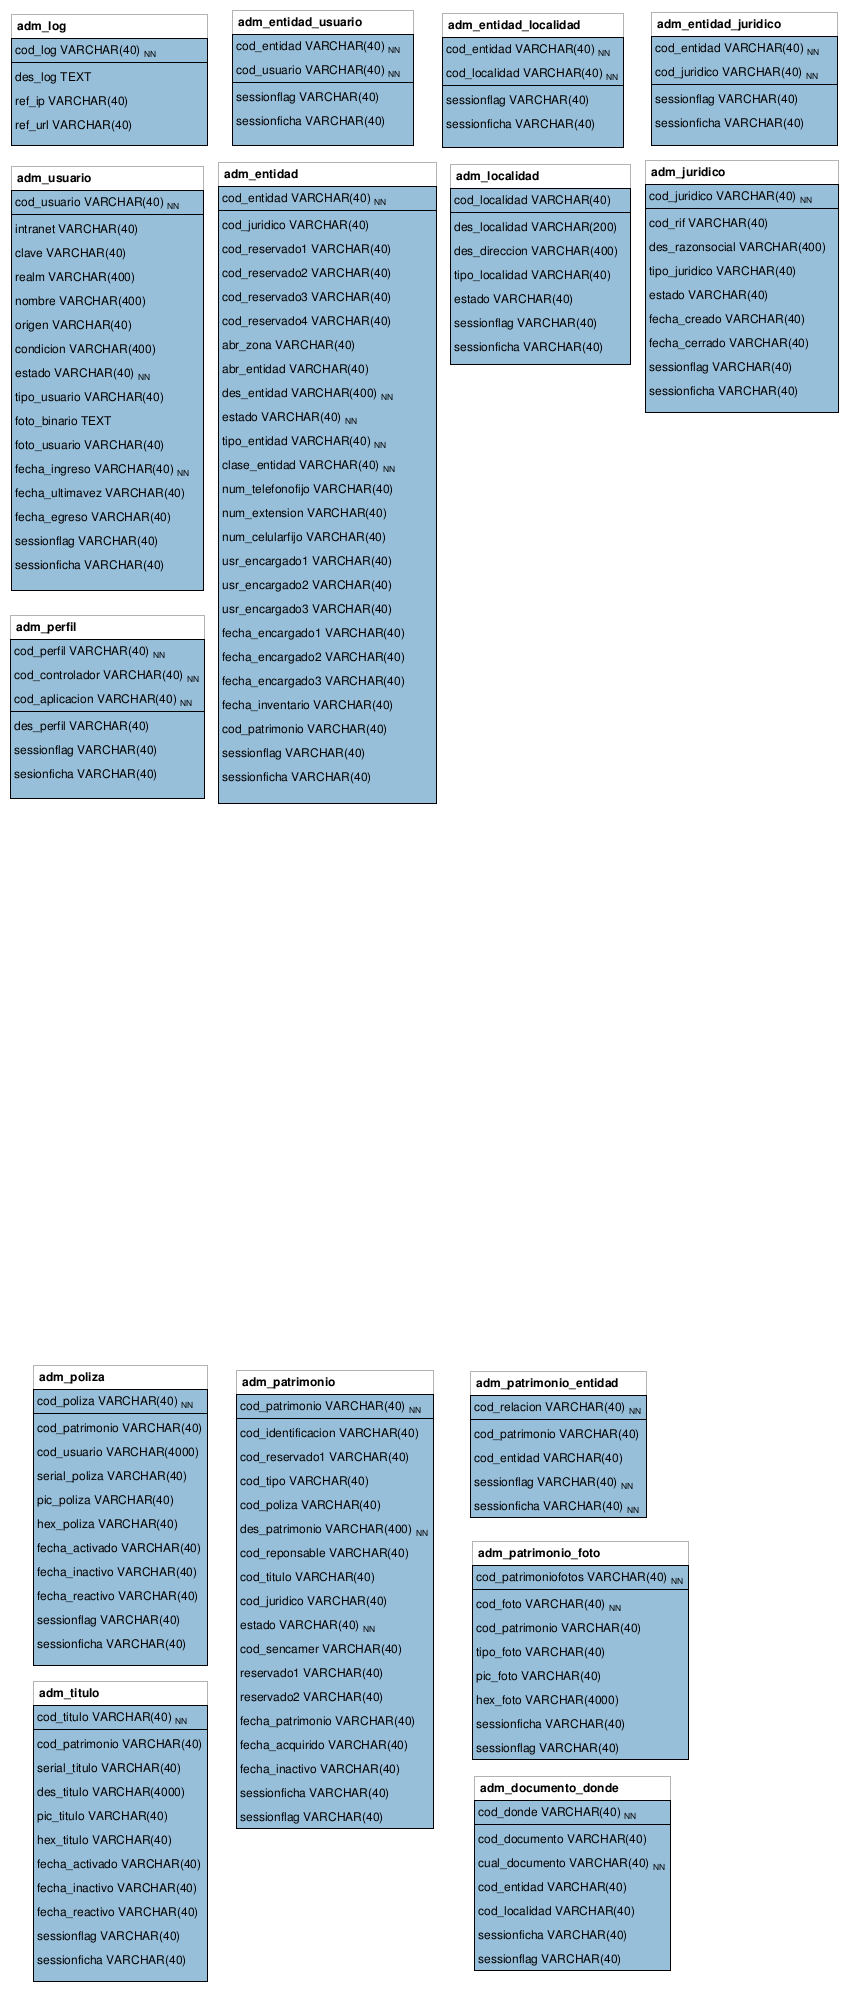
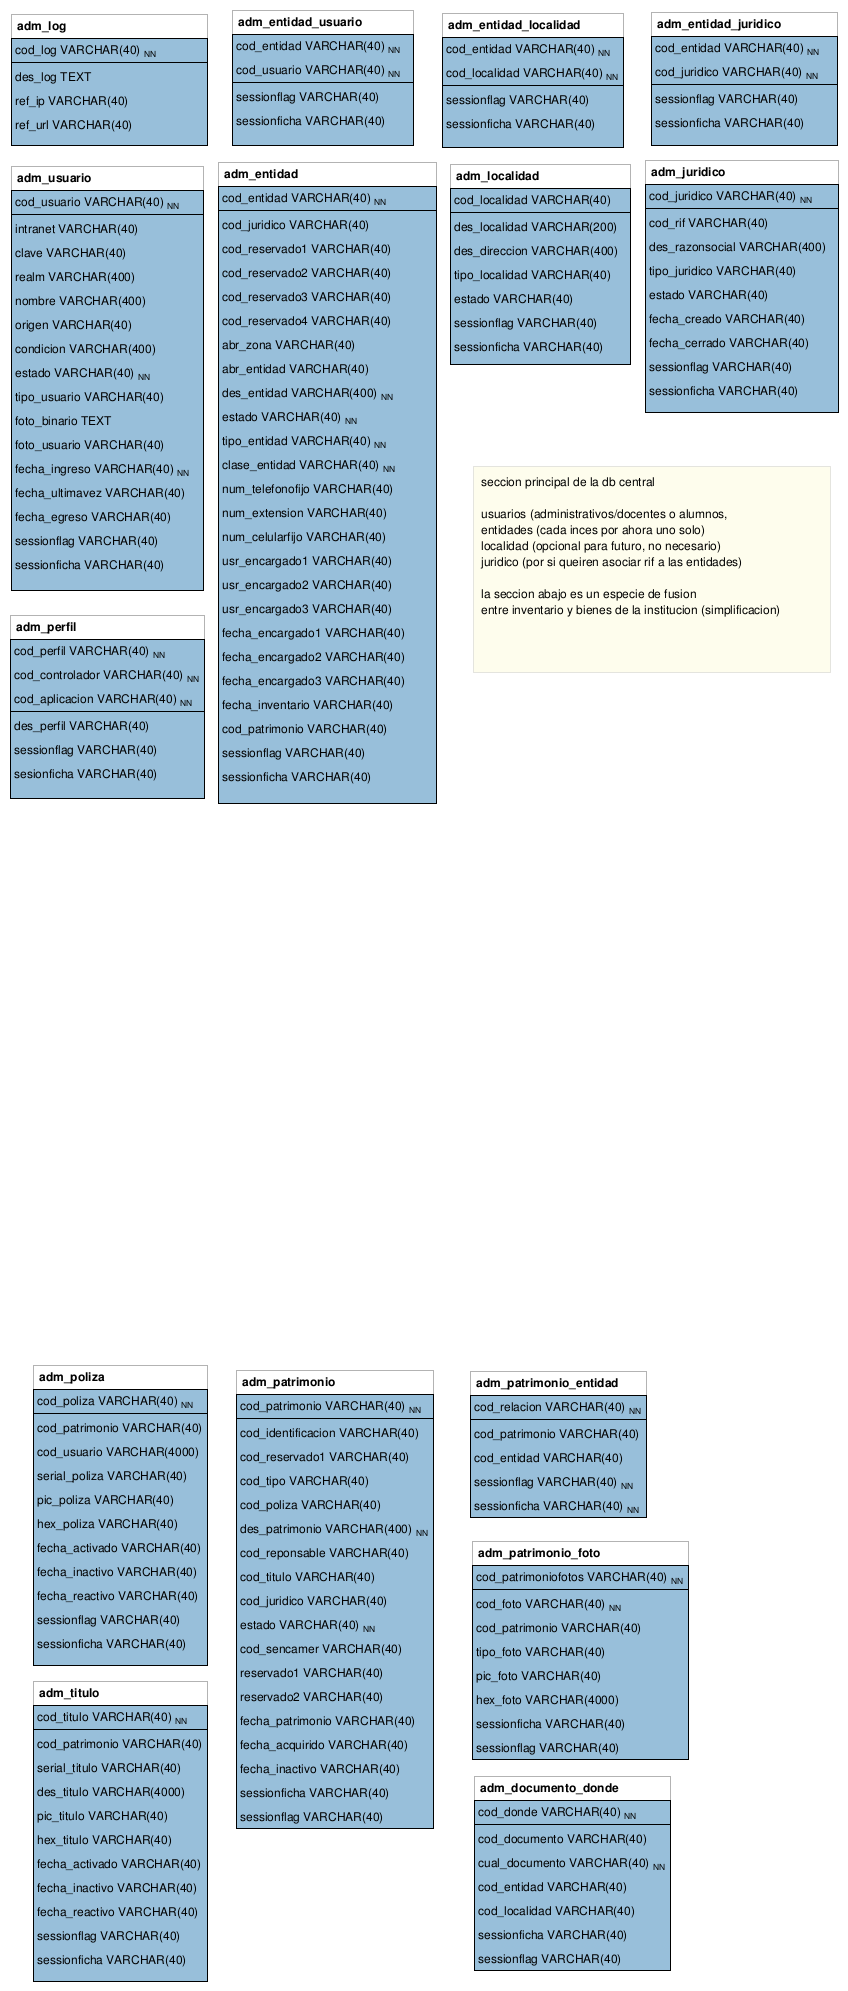
corregido pequeno error en modelo de datos * fecha default a nulo pero no permitia nulo

Changed region(s): [[0.5519, 0.218, 0.8892, 0.3114]]

diff --git a/docs/diseno-base-de-datos.md b/docs/diseno-base-de-datos.md
@@ -134,7 +134,7 @@ CREATE TABLE IF NOT EXISTS `unidbcentral`.`adm_usuario` (
   `tipo_usuario` VARCHAR(40) NULL DEFAULT 'ALUMNO' COMMENT 'ALUMNO|ADMINISTRATIVO',
   `foto_binario` TEXT NULL DEFAULT NULL COMMENT 'encode64 de la foto para no tener en filesystem',
   `foto_usuario` VARCHAR(40) NULL COMMENT 'ruta de la foto en el filesystem',
-  `fecha_ingreso` VARCHAR(40) NOT NULL DEFAULT NULL COMMENT 'YYYYMMDD fecha que ingreso a operar/trabajar/asistir',
+  `fecha_ingreso` VARCHAR(40) NULL DEFAULT NULL COMMENT 'YYYYMMDD fecha que ingreso a operar/trabajar/asistir',
   `fecha_ultimavez` VARCHAR(40) NULL DEFAULT NULL COMMENT 'YYYYMMDD ultimo registro de sesion',
   `fecha_egreso` VARCHAR(40) NULL DEFAULT NULL COMMENT 'YYYYMMDD fecha que dejo de operar para siempre',
   `sessionflag` VARCHAR(40) NULL DEFAULT NULL COMMENT 'YYYYMMDDhhmmss + entidad + . + usuario : quien altero este registro',
